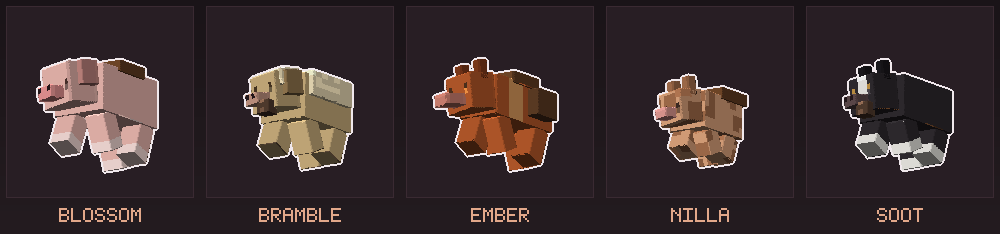
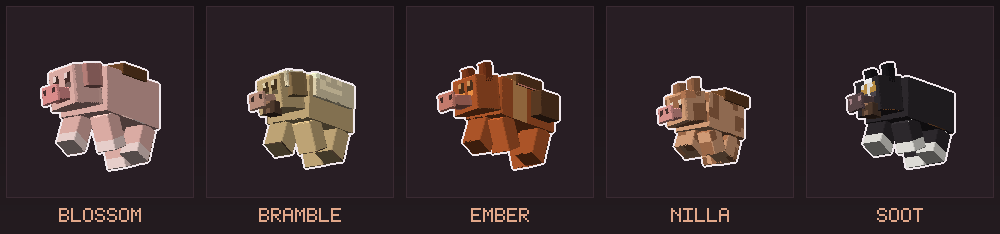
Ansiktena: ögon som syns, näsborrar som finns, och ett tryne som slutar i en skiva
En spelare skrev att Blossom inte har några ögon. Hon hade rätt, och när jag
mätte i stället för att titta visade det sig vara tre fel samtidigt:

  * Blossoms öga var 1x1 på familjens största huvud (9 texlar) och låg nere vid
    trynet. Ögat skalar nu med huvudet och sitter i övre tredjedelen.
  * Ember och Nilla saknade näsborrar HELT. Trynets yta börjar på y=42,5 och
    round() la prickarna på grannytan. Detaljer placeras nu bara på texlar som
    ligger helt inne i sin egen yta.
  * Soots näsborrar var (38,24,28) på ett tryne som är (96,76,78). Färgen följer
    nu trynet, precis som ögonkontrasten redan följde pälsen.

Ögonen har fått en ljus glans i övre hörnet — det är den enskilda detalj som
gör skillnad mellan djur och gulligt djur, och ungarna hade bett om sötare
grisar.

Tamworthens 4,5 enheter långa tryne var en tub som läste som en myrslok. Alla
fem raserna har nu en trynskiva längst fram: bredare och högre än nosryggen,
en halv enhet tjock. Renderarens ram vidgades till z=-19 för att rymma den.

Fyra nya spärrar, alla fällda i snuffle-falsifiera (14/14 faller).

diff --git a/tools/make_pigs.py b/tools/make_pigs.py
@@ -68,6 +68,17 @@ def kroppsdelar(bh=6, kl=16, kb=10, kh=8, hs=8, tl=3, oron="upp", ludd=False):
         # TRYNET STICKER RAKT UT och är trubbigt avskuret. Första försöket
         # smalnade av det som en hundnos och grisen såg ut som en rosa varg.
         ("tryne", "head", None, [-tb / 2, hy + hh * 0.15, hz - tl], [tb, th_, tl]),
+        # TRYNSKIVAN. En avlång låda är ingen grisnos. Tamworthens tryne är
+        # 4,5 enheter långt och blev en TUB som stack rakt fram — från sidan
+        # läste grisen som en myrslok, och det var precis vad spelaren sa.
+        #
+        # En gris känns igen på att nosen slutar i en PLATT SKIVA som är
+        # bredare och högre än nosryggen. Skivan sitter längst fram, är en halv
+        # enhet tjock och sticker ut en tiondel så den inte flimrar mot trynets
+        # framsida (z-fighting). NÄSBORRARNA MÅLAS PÅ SKIVAN, inte på trynet —
+        # det är skivan man ser framifrån.
+        ("trynskiva", "head", None,
+         [-(tb + 1) / 2, hy + hh * 0.15 - 0.5, hz - tl - 0.4], [tb + 1, th_ + 1, 0.5]),
     ]
     if oron == "upp":
         # Uppstående öron sitter BAKÅT på skallen, inte på framkanten — en gris
@@ -261,7 +272,8 @@ def pals(rasid, delar, uv, farg):
         sidor.setdefault(roll, []).append((f, size))
         grund = UTRUSTNING.get(roll) or {"ull": farg["under"],
                                          "ora": farg["skugga"],
-                                         "tryne": farg["tryne"]}.get(roll, farg["pals"])
+                                         "tryne": farg["tryne"],
+                                         "trynskiva": farg["tryne"]}.get(roll, farg["pals"])
         for namn, (fx, fy, fw, fh) in f.items():
             rect(fx, fy, fw, fh, sh(grund, SIDSKUGGA[namn]))
 
@@ -286,34 +298,73 @@ def pals(rasid, delar, uv, farg):
             irect(fx + int(fw) - 1, fy + int(fh) - 1, 1, 1, sh(UTRUSTNING["tryffel"], 1.5))
 
     # ANSIKTET sist, så inget mönster målar över ögonen.
+    #
+    # ALLA DETALJER PLACERAS MED inre(). En yta vars kant hamnar på en halv
+    # texel (trynet börjar på y=42,5) delar sin första och sista texel med
+    # grannytan, och round() lade då detaljen på GRANNEN i stället: ember och
+    # nilla saknade näsborrar helt, och ingen hade märkt det på tre versioner
+    # eftersom ett tryne utan näsborrar fortfarande är ett rosa tryne.
+    def inre(f0, fl):
+        """Första och sista texel som ligger HELT inne i ytan, som [a, b)."""
+        a = int(math.ceil(f0 - 1e-6))
+        b = int(math.floor(f0 + fl + 1e-6))
+        return a, max(a + 1, b)
+
     for f, size in sidor["head"]:
         hs, hh = size[0], size[1]
         fx, fy, fw, fh = f["north"]
-        # ÖGONHÖJDEN ÄR UTRÄKNAD, inte prövad, och räknas UR HUVUDETS HÖJD —
-        # inte ur bredden. Huvudet är plattare än det är brett, så bredden gav
-        # ögon nere i trynet. Trynets överkant ligger på hh*0,45 räknat
-        # nerifrån, alltså rad hh*0,55 räknat uppifrån; ögonen läggs en pixel
-        # ovanför den, där en gris har dem.
-        rad = max(0, int(hh * 0.55) - 1)
+        ax, bx = inre(fx, fw)
+        ay, by = inre(fy, fh)
+        # ÖGATS STORLEK FÖLJER HUVUDET. Blossom har familjens största huvud
+        # (9 texlar brett) och hade samma 1x1-öga som kunekunens på 7 —
+        # proportionellt det minsta av alla fem. Tillsammans med att det låg
+        # nere vid trynet försvann det helt, och spelaren rapporterade en gris
+        # UTAN ÖGON. Det var en riktig bugg, inte en smaksak.
+        ob = 2 if hs >= 8 else 1
+        # ÖGONEN SITTER I ÖVRE TREDJEDELEN, räknat UR HUVUDETS HÖJD — huvudet
+        # är plattare än det är brett, så bredden gav ögon nere i trynet.
+        # Trynets överkant ligger på hh*0,55 räknat uppifrån; 0,26 lämnar en
+        # tom rad emellan så ögat inte klistrar ihop med nosen.
+        rad = min(max(ay, int(fy + fh * 0.26)), by - 3)
         ljus = sum(farg["pals"]) / 3
         kontrast = sh(farg["pals"], 0.55 if ljus > 130 else 1.7)
-        for ox in (1, int(hs) - 2):
-            irect(fx + ox, fy + rad, 1, 1, kontrast)
-            irect(fx + ox, fy + rad, 1, 1, farg["ogon"] + (255,))
-            irect(fx + ox, fy + rad + 1, 1, 1, kontrast)
-    for f, size in sidor["tryne"]:
-        # NÄSBORRARNA ÄR HELA POÄNGEN. Ett enfärgat tryne är bara en kloss;
-        # två mörka prickar gör att ansiktet omedelbart läser som en gris.
+        # GLANSEN GÖR ÖGAT SÖTT. Ett ögon som bara är en mörk fyrkant är en
+        # knapp; en ljus prick i övre hörnet läser omedelbart som en blank,
+        # levande blick — det är samma knep vanilla använder på axolotl och
+        # katt, och det är hela skillnaden mellan "djur" och "gulligt djur".
+        # Prickens färg är trynets ljusaste ton, inte rent vitt: rent vitt
+        # lyser igenom på en mörk gris och ögat ser sprucket ut.
+        glans = sh(farg["under"], 1.0)
+        for ox in (ax + 1, bx - 1 - ob):
+            irect(ox, rad, ob, 2, farg["ogon"] + (255,))
+            irect(ox, rad, 1, 1, glans)
+            irect(ox, rad + 2, ob, 1, kontrast)
+
+    # NÄSBORRARNA ÄR HELA POÄNGEN. Ett enfärgat tryne är bara en kloss; två
+    # mörka prickar gör att ansiktet omedelbart läser som en gris. De målas på
+    # SKIVAN, inte på nosryggen — det är skivan man ser framifrån.
+    for f, size in sidor["trynskiva"]:
         fx, fy, fw, fh = f["north"]
         rect(fx, fy, fw, fh, sh(farg["tryne"], 1.0))
-        mitt = fy + max(0, int(fh / 2) - 1)
-        # NÄSBORRARNA MÅSTE HA GLAPP EMELLAN SIG. Med "en pixel in från vardera
-        # kanten" hamnade de bredvid varandra på ett tryne som bara är fyra
-        # pixlar brett, och blev ETT mörkt streck — grisen såg ut att ha mustasch.
-        # Positionerna räknas därför ut från mitten med minst två pixlars glapp.
-        halv = int(fw) // 2
-        for ox in (max(0, halv - 2), min(int(fw) - 1, halv + 1)):
-            irect(fx + ox, mitt, 1, 1, (38, 24, 28, 255))
+        ax, bx = inre(fx, fw)
+        ay, by = inre(fy, fh)
+        mitt = min(max(ay, int(fy + fh * 0.45)), by - 1)
+        # NÄSBORRARNA MÅSTE HA GLAPP EMELLAN SIG. Utan glapp flyter de ihop
+        # till ETT mörkt streck och grisen ser ut att ha mustasch — eller värre,
+        # en mun. Skivan är bara fyra till sex texlar bred, så "en in från
+        # varje kant" räcker inte alltid: då används ytterkanterna i stället.
+        vanster, hoger = ax + 1, bx - 2
+        if hoger - vanster < 2:
+            vanster, hoger = ax, bx - 1
+        # NÄSBORRENS FÄRG FÖLJER TRYNET, den är inte en fast mörk ton. Berkshiren
+        # har ett nästan svart tryne (96,76,78) och en fast (38,24,28) syntes
+        # inte alls där — samma slags osynlighet som Blossoms ögon, fast åt
+        # andra hållet. Mörkt tryne får ljusa näsborrar.
+        nosborre = sh(farg["tryne"], 0.34 if sum(farg["tryne"]) / 3 > 130 else 1.9)
+        for ox in (vanster, hoger):
+            irect(ox, mitt, 1, 1, nosborre)
+
+    for f, size in sidor["tryne"]:
         tx, ty, tw_, th_ = f["top"]
         rect(tx, ty, tw_, th_, sh(farg["tryne"], 1.08))     # nosryggen ljusare
     rr.write_png(f"{RP}/textures/entity/{rasid}.png", TW, TH, px)

diff --git a/tools/render_pigs.py b/tools/render_pigs.py
@@ -59,7 +59,9 @@ def rita(geoid, texnamn, W, H, yaw=34, pitch=14, pose=POSE, visa=(),
            for b in geo["bones"] if b["name"] not in dolda]
     # RAMEN ÄR GRISENS, inte hundens. Med hundpaketets ram (±9 i x, ±13 i z)
     # skars lantrasens tryne och bakdel av — en gris är bredare och längre.
-    hörn = [cam((x, y, z)) for x in (-11, 11) for y in (0, 22) for z in (-16, 12)]
+    # Framkanten flyttades från -16 till -19 när trynskivan kom: tamworthens
+    # nos når -18,3 och skivan hade annars hamnat utanför bilden.
+    hörn = [cam((x, y, z)) for x in (-11, 11) for y in (0, 22) for z in (-19, 12)]
     minx, maxx = min(c[0] for c in hörn), max(c[0] for c in hörn)
     miny, maxy = min(c[1] for c in hörn), max(c[1] for c in hörn)
     pad = int(min(W, H) * 0.05)

diff --git a/CHANGELOG.md b/CHANGELOG.md
@@ -1,5 +1,37 @@
 # Ändringar
 
+## 1.3.0 — 2026-09-01
+
+**Grisarna har fått ansikten.** Tre fel levde samtidigt utan att någon spärr sa
+ett ord, för varje fil var giltig i alla andra avseenden:
+
+* **Blossom hade inga ögon.** Familjens största huvud (9 texlar brett) hade
+  samma 1x1-öga som kunekunens på 7 — proportionellt det minsta av alla fem —
+  och det låg dessutom nere vid trynet där det försvann i skuggan. Det var en
+  spelare som rapporterade det, inte ett test.
+* **Ember och Nilla saknade näsborrar helt.** Trynets yta börjar på en halv
+  texel, och avrundningen la prickarna på grannytan i stället. Ett tryne utan
+  näsborrar är fortfarande ett rosa tryne, så ingen hade märkt det.
+* **Soots näsborrar var nästan svarta på ett nästan svart tryne.** Samma sorts
+  osynlighet som Blossoms ögon, fast åt andra hållet.
+
+Ögonen skalar nu med huvudet, sitter i övre tredjedelen och har **en ljus glans
+i övre hörnet** — samma knep som vanilla använder på katt och axolotl, och hela
+skillnaden mellan "djur" och "gulligt djur". Näsborrarnas färg följer trynet, så
+de syns på både en rosa lantras och en svart berkshire.
+
+**Trynet slutar i en skiva.** Tamworthens tryne är 4,5 enheter långt och var en
+avlång låda — från sidan läste grisen som en myrslok, inte som en gris. En gris
+känns igen på att nosen slutar i en platt skiva som är bredare än nosryggen, och
+det är precis vad den gör nu. Alla fem raserna har den; på Ember gör den mest
+skillnad.
+
+**Fyra nya spärrar**, alla provade i `snuffle-falsifiera`: ögonen måste avvika
+från pälsen, de måste skala med huvudet, de måste sitta ovanför trynskivan, och
+skivan måste ha två skilda näsborrar. Detaljer placeras nu bara på texlar som
+ligger *helt* inne i sin egen yta — det var den avrundningen som tog Embers och
+Nillas näsborrar.
+
 ## 1.2.0 — 2026-09-01
 
 **Grisarna vältrar sig.** En gris som hittar lera lägger sig i den och går
